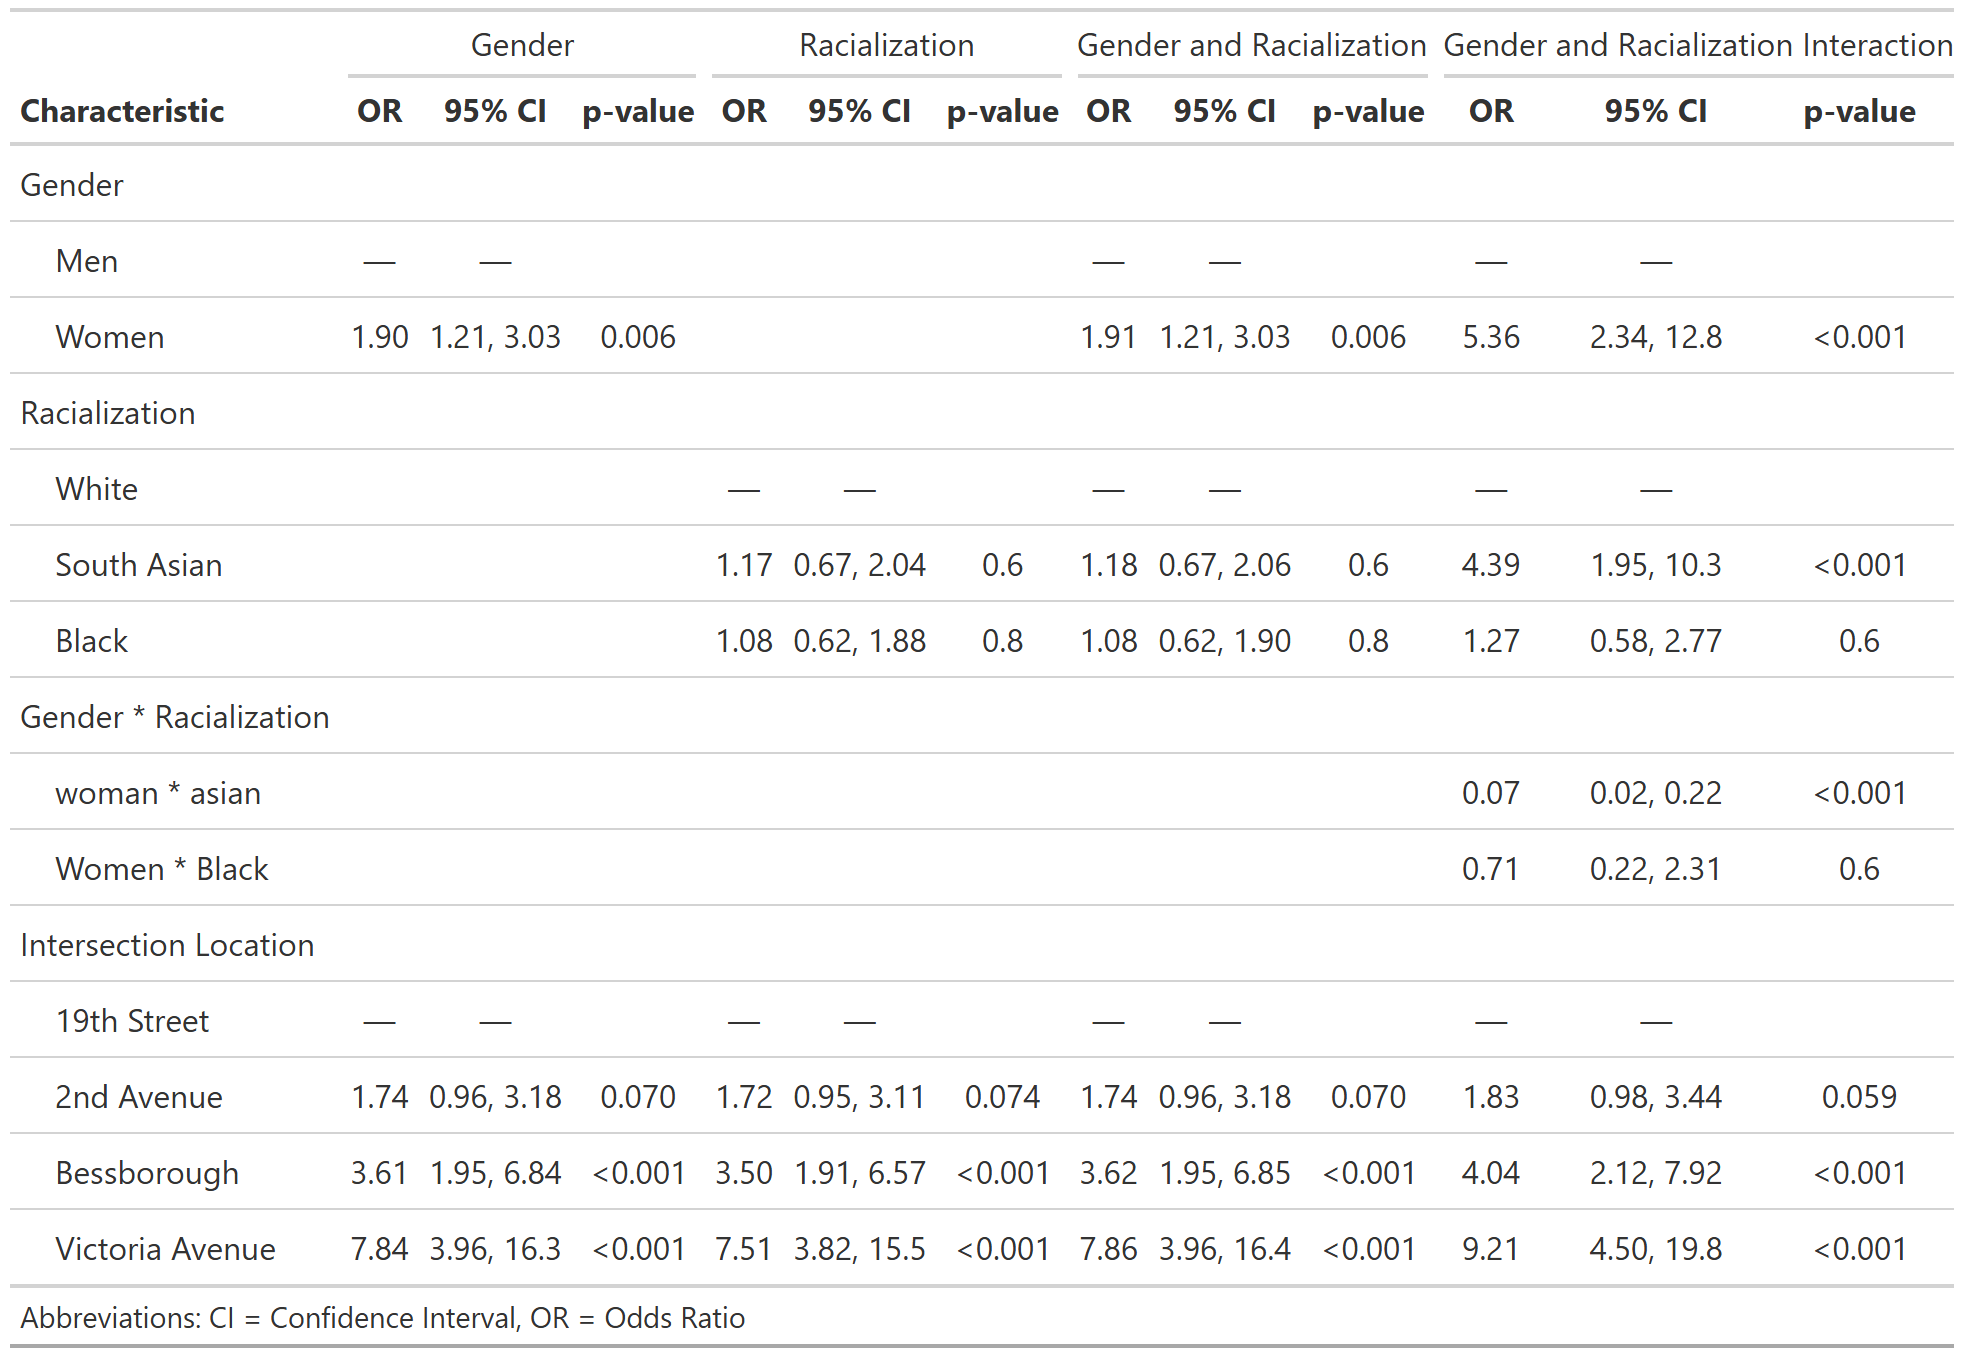
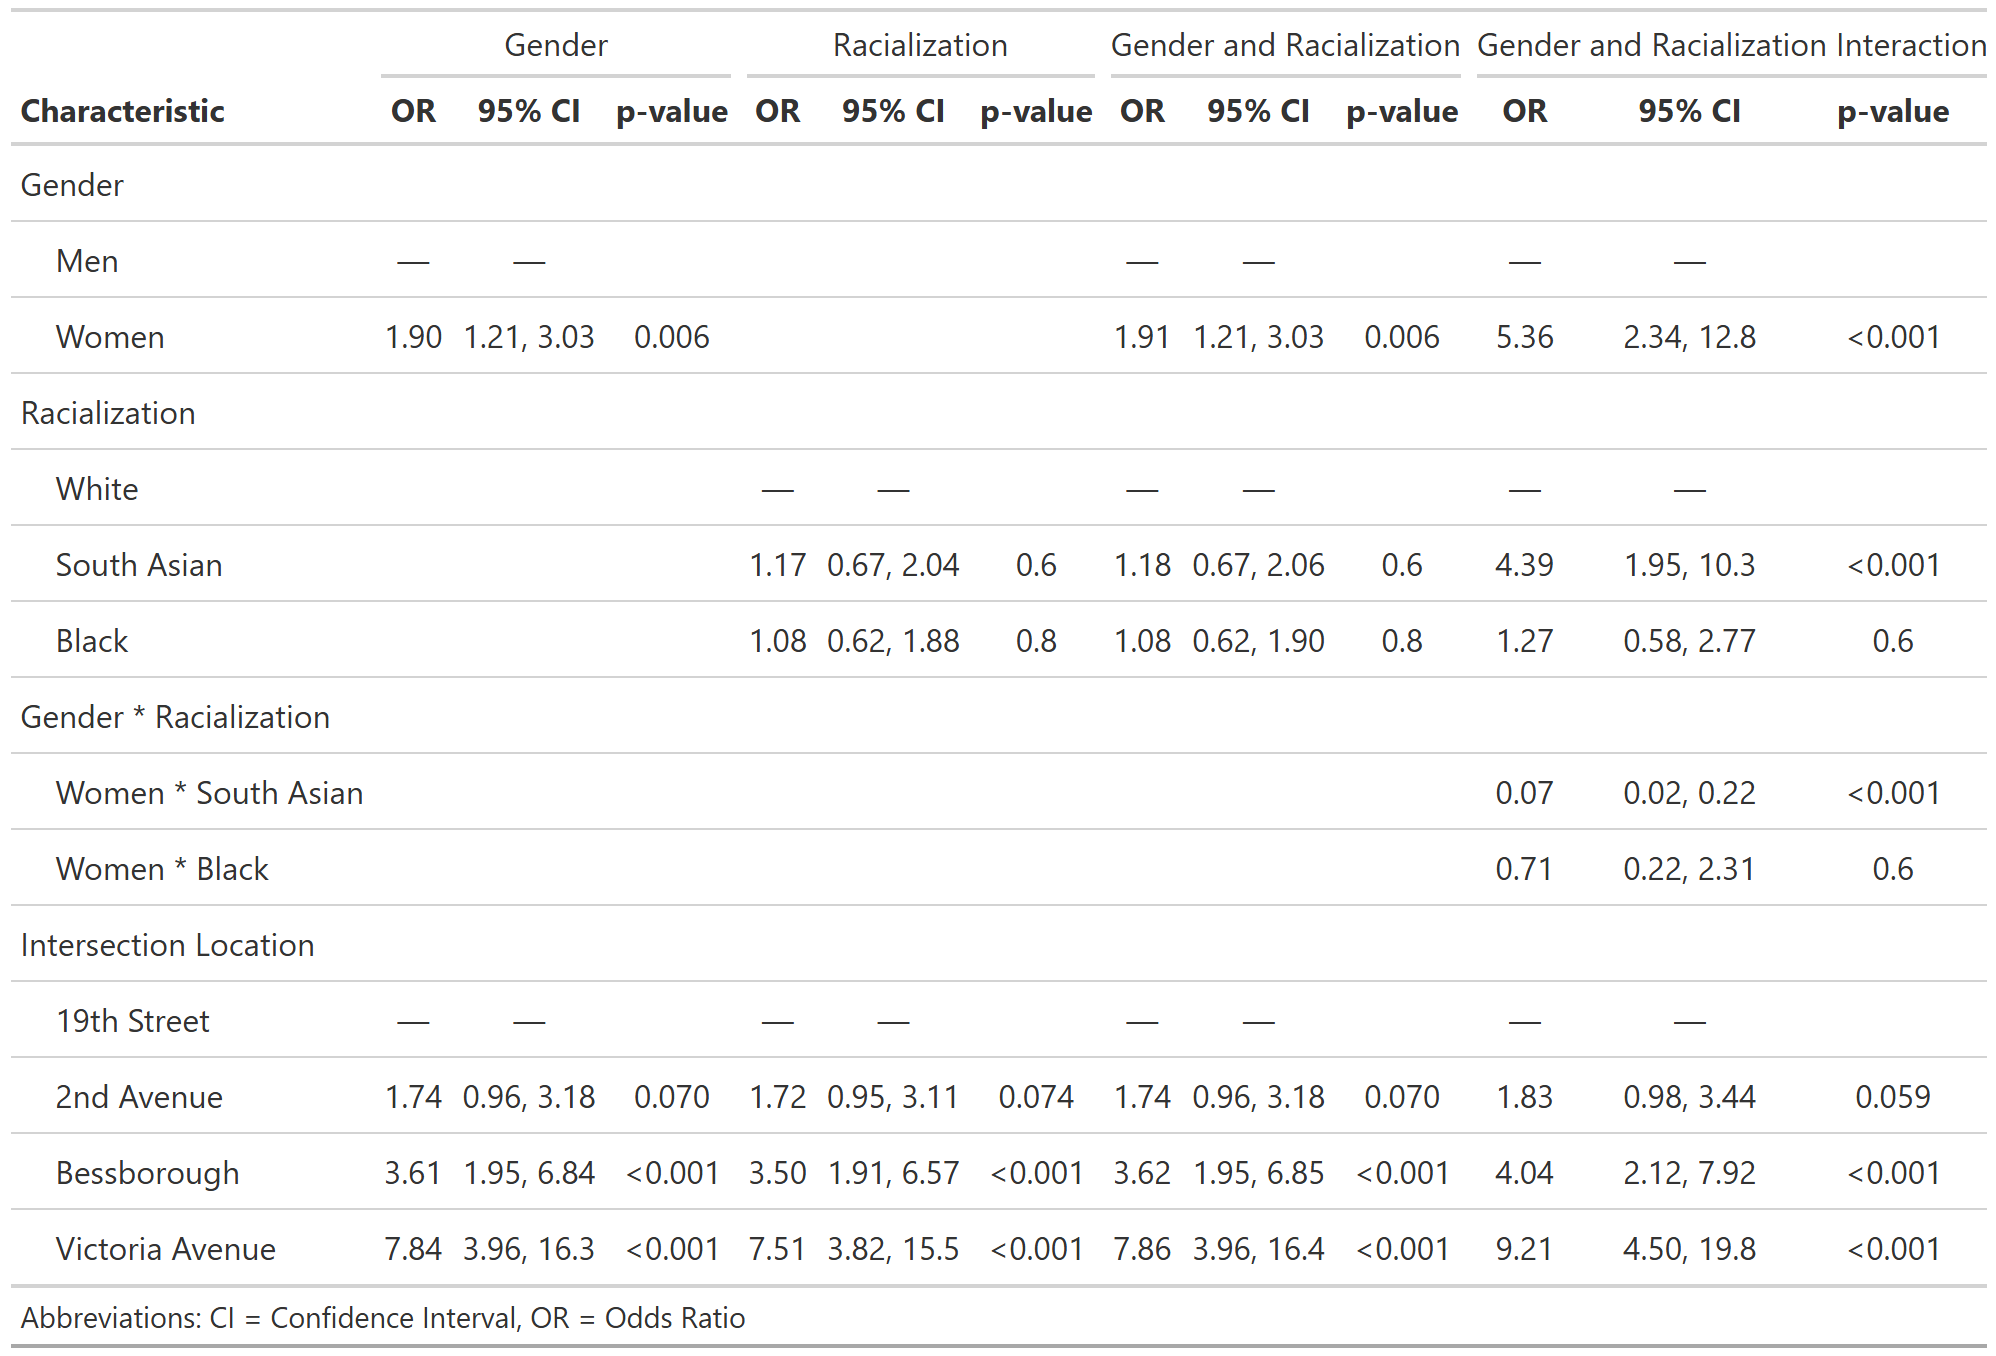
Commit from RStudio

diff --git a/racial_bias_analysis.md b/racial_bias_analysis.md
@@ -699,7 +699,7 @@ tbl4 <- tbl_regression(
           label == "2nd"  ~ "2nd Avenue",
           label == "bessborough" ~ "Bessborough",
           label == "victoria" ~ "Victoria Avenue",
-          label == "woman * white" ~ "Women * White",
+          label == "woman * asian" ~ "Women * South Asian",
           label == "woman * black" ~ "Women * Black",
           TRUE ~ label)
     ))
@@ -750,7 +750,7 @@ as_gt(table1) %>%
 ```
 
 ```
-## file:///C:/Users/KADEGA~1/AppData/Local/Temp/RtmpWuo6Qe/file315064306741.html screenshot completed
+## file:///C:/Users/KADEGA~1/AppData/Local/Temp/RtmpiC1o55/file35646d6a56ab.html screenshot completed
 ```
 
 # 6. Mean number of cars before yield
@@ -1131,7 +1131,7 @@ tbl8 <- tbl_regression(
           label == "2nd"  ~ "2nd Avenue",
           label == "bessborough" ~ "Bessborough",
           label == "victoria" ~ "Victoria Avenue",
-          label == "woman * white" ~ "Women * White",
+          label == "woman * asian" ~ "Women * South Asian",
           label == "woman * black" ~ "Women * Black",
           TRUE ~ label)
     ))
@@ -1184,7 +1184,7 @@ as_gt(table2) %>%
 ```
 
 ```
-## file:///C:/Users/KADEGA~1/AppData/Local/Temp/RtmpWuo6Qe/file31504f413ba.html screenshot completed
+## file:///C:/Users/KADEGA~1/AppData/Local/Temp/RtmpiC1o55/file35644dcfafc.html screenshot completed
 ```
 
 # 7. Mean time to enter intersection
@@ -1581,7 +1581,7 @@ tbl12 <- tbl_regression(
           label == "2nd"  ~ "2nd Avenue",
           label == "bessborough" ~ "Bessborough",
           label == "victoria" ~ "Victoria Avenue",
-          label == "woman * white" ~ "Women * White",
+          label == "woman * asian" ~ "Women * South Asian",
           label == "woman * black" ~ "Women * Black",
           TRUE ~ label)
     ))
@@ -1634,7 +1634,7 @@ as_gt(table3) %>%
 ```
 
 ```
-## file:///C:/Users/KADEGA~1/AppData/Local/Temp/RtmpWuo6Qe/file315060635374.html screenshot completed
+## file:///C:/Users/KADEGA~1/AppData/Local/Temp/RtmpiC1o55/file3564576a53ea.html screenshot completed
 ```
 
 # 8. Car proceed through intersection
@@ -2142,7 +2142,7 @@ tbl16 <- tbl_regression(
           label == "2nd"  ~ "2nd Avenue",
           label == "bessborough" ~ "Bessborough",
           label == "victoria" ~ "Victoria Avenue",
-          label == "woman * white" ~ "Women * White",
+          label == "woman * asian" ~ "Women * South Asian",
           label == "woman * black" ~ "Women * Black",
           TRUE ~ label)
     ))
@@ -2193,7 +2193,7 @@ as_gt(table4) %>%
 ```
 
 ```
-## file:///C:/Users/KADEGA~1/AppData/Local/Temp/RtmpWuo6Qe/file31507d542e81.html screenshot completed
+## file:///C:/Users/KADEGA~1/AppData/Local/Temp/RtmpiC1o55/file35642e4978fa.html screenshot completed
 ```
 
 # 9. Cars stop close or far 
@@ -2708,7 +2708,7 @@ tbl20 <- tbl_regression(
           label == "2nd"  ~ "2nd Avenue",
           label == "bessborough" ~ "Bessborough",
           label == "victoria" ~ "Victoria Avenue",
-          label == "woman * white" ~ "Women * White",
+          label == "woman * asian" ~ "Women * South Asian",
           label == "woman * black" ~ "Women * Black",
           TRUE ~ label)
     ))
@@ -2759,7 +2759,7 @@ as_gt(table5) %>%
 ```
 
 ```
-## file:///C:/Users/KADEGA~1/AppData/Local/Temp/RtmpWuo6Qe/file3150498331bc.html screenshot completed
+## file:///C:/Users/KADEGA~1/AppData/Local/Temp/RtmpiC1o55/file35642e1c589e.html screenshot completed
 ```
 
 # 10. Histograms
